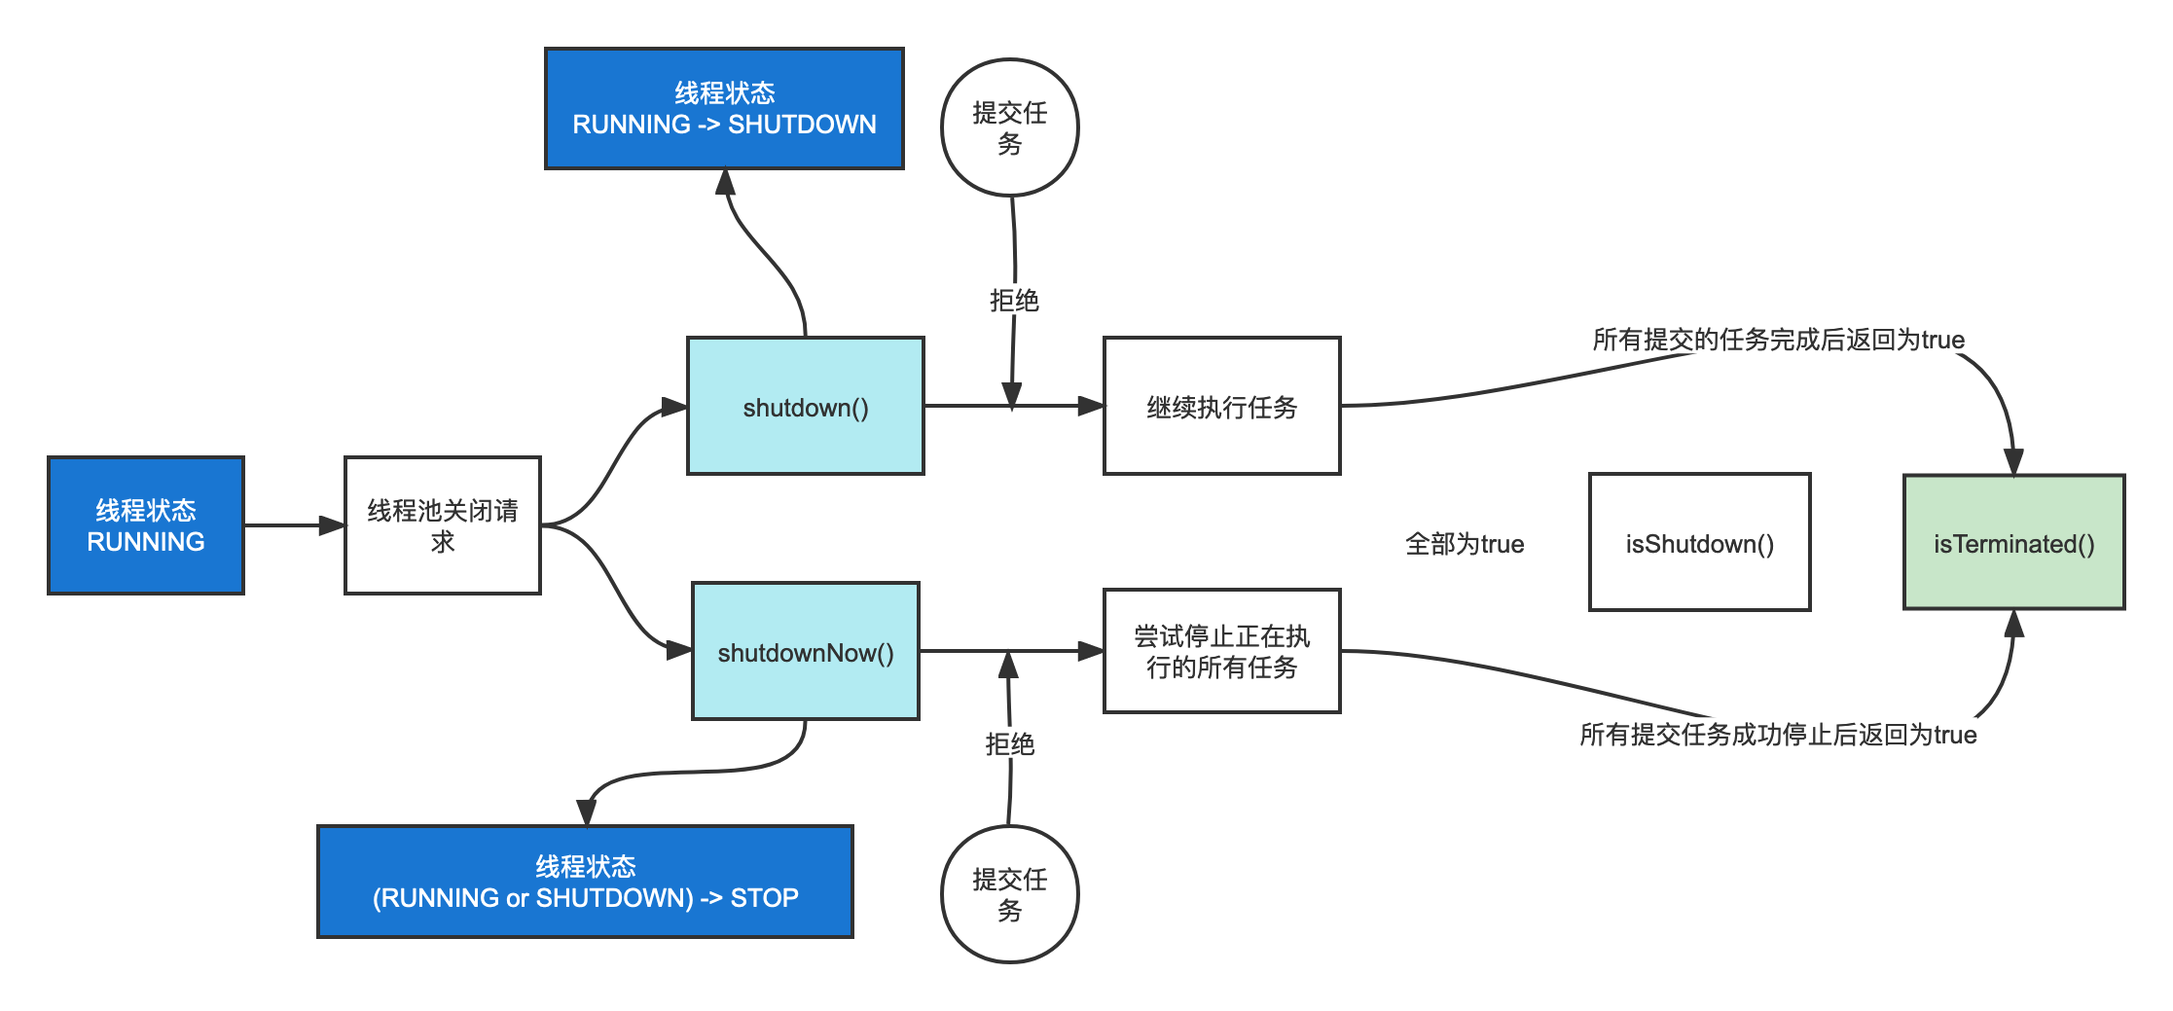
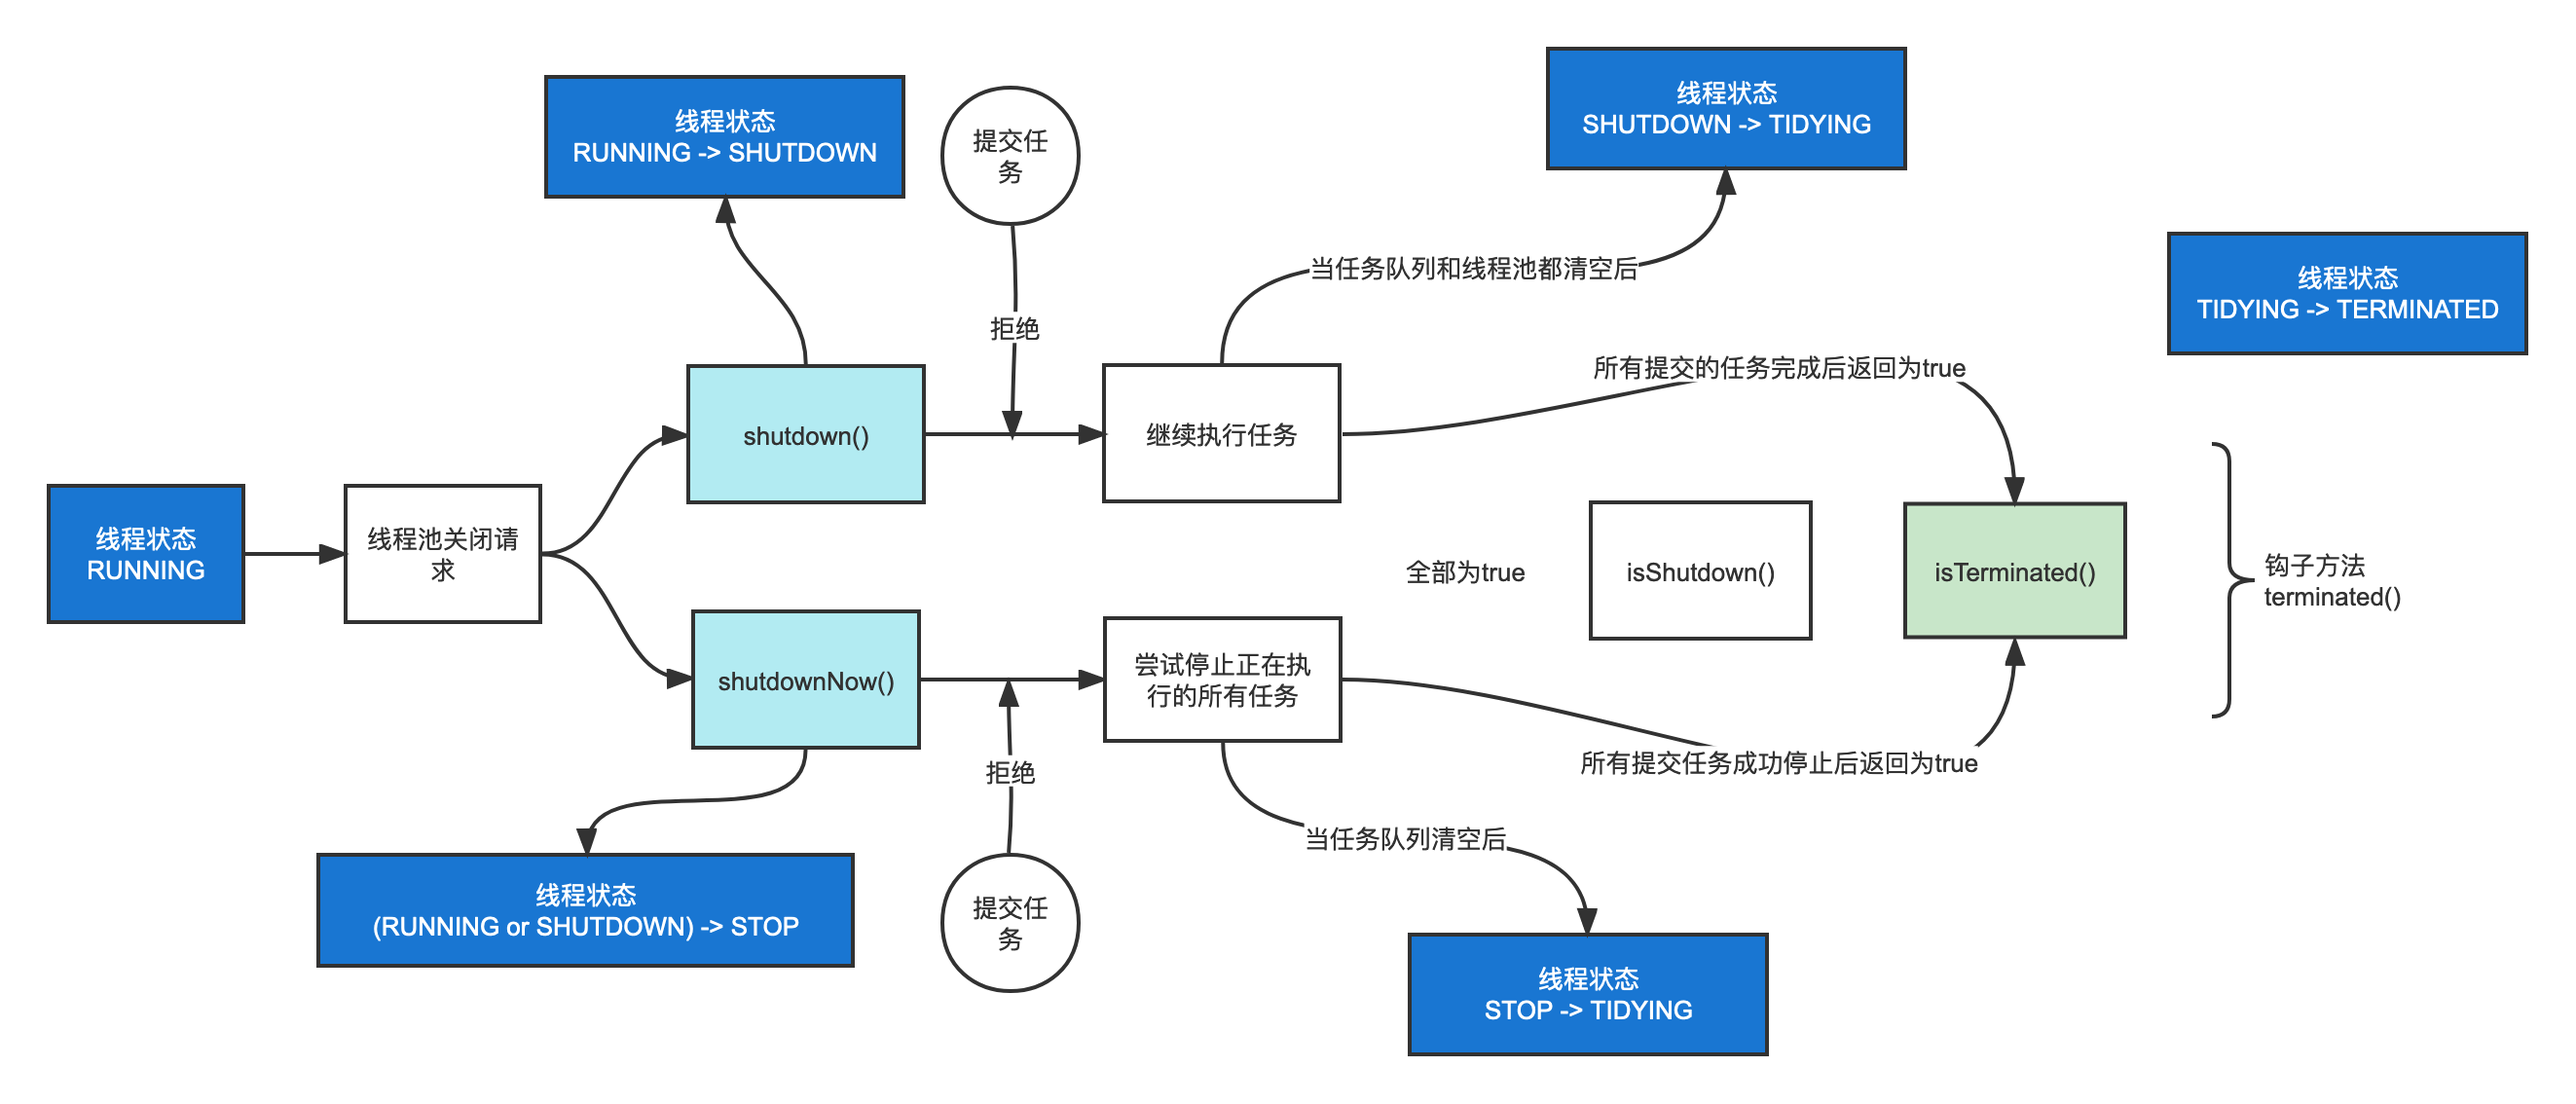
hashcode

diff --git a/docs/md/thread/线程池关闭.md b/docs/md/thread/线程池关闭.md
@@ -2,6 +2,52 @@
 
 <img src="../../assets/img/%E7%BA%BF%E7%A8%8B%E6%B1%A0%E5%85%B3%E9%97%AD.png" alt="线程池关闭" style="zoom:50%;" />
 
+## 线程池状态
+
+- RUNNING：正常的状态：接受新的任务，处理等待队列中的任务
+- SHUTDOWN：不接受新的任务提交，但是会继续处理等待队列中的任务
+- STOP：不接受新的任务提交，不再处理等待队列中的任务，中断正在执行任务的线程
+- TIDYING：所有的任务都销毁了，workCount 为 0。线程池的状态在转换为 TIDYING 状态时，会执行钩子方法 terminated()
+- TERMINATED：terminated() 方法结束后，线程池的状态就会变成这个
+
+
+
+```java
+ private final AtomicInteger ctl = new AtomicInteger(ctlOf(RUNNING, 0));
+    // COUNT_BITS 设置为 29(32-3)，前三位用于存放线程状态，后29位用于存放线程数
+    // 00000000000000000000000000011101
+    private static final int COUNT_BITS = Integer.SIZE - 3;
+    // 000 11111111111111111111111111111
+    // 线程池的最大线程数是 2^29-1=536870911
+    // 减1之后高三位为 0，其他为1
+    private static final int CAPACITY   = (1 << COUNT_BITS) - 1;
+    // runState is stored in the high-order bits
+    // 线程池的状态存放在高 3 位中
+    // 11100000000000000000000000000000
+    private static final int RUNNING    = -1 << COUNT_BITS;
+    // 00000000000000000000000000000000
+    private static final int SHUTDOWN   =  0 << COUNT_BITS;
+    // 00100000000000000000000000000000
+    private static final int STOP       =  1 << COUNT_BITS;
+    // 01000000000000000000000000000000
+    private static final int TIDYING    =  2 << COUNT_BITS;
+    // 01100000000000000000000000000000
+    private static final int TERMINATED =  3 << COUNT_BITS;
+
+    // Packing and unpacking ctl
+    //  & 两个数都为1则为1，否则为0
+    // 将整数 c 的低 29 位修改为 0，就得到了线程池的状态
+    // ~CAPACITY 111 00000000000000000000000000000
+    private static int runStateOf(int c)     { return c & ~CAPACITY; }
+    
+    // 将整数 c 的高 3 为修改为 0，就得到了线程池中的线程数
+    // CAPACITY 000 11111111111111111111111111111
+    private static int workerCountOf(int c)  { return c & CAPACITY; }
+    private static int ctlOf(int rs, int wc) { return rs | wc; }
+```
+
+
+
 ## shutdown()
 
 关闭线程池，已提交的任务继续执行，不接受继续提交新任务。
@@ -66,3 +112,4 @@ private void awaitTerminationIfNecessary(int awaitTerminationSeconds) {
     }
 }
 ```
+

diff --git a/docs/md/java/hashCode.md b/docs/md/java/hashCode.md
@@ -1,0 +1,69 @@
+# hashCode
+
+哈希码（HashCode），并不是完全唯一的，它是一种算法，让同一个类的对象按照自己不同的特征尽量的有不同的哈希码，但不表示不同的对象哈希码完全不同。
+
+## hashCode与equals
+
+equals()方法在Object中用的是 == 对比的是地址，所以要以对象某某个属性判断对象是否相等需要重写equals()方法。
+
+基本逻辑：
+
+- 两个对象 equals，Java 运行时环境会认为他们的 hashCode 一定相等。
+
+- 两个对象不 equals，他们的 hashCode 有可能相等。
+
+- 不管两个对象的 hashCode 是否相等，equals 都不一定。
+
+### 重写 equals
+
+Object.java，默认比较地址
+
+```java
+public boolean equals(Object obj) {
+    return (this == obj);
+}
+```
+
+String.java，重写了 equals
+
+```java
+public boolean equals(Object anObject) {
+    if (this == anObject) {
+        return true;
+    }
+    if (anObject instanceof String) {
+        String anotherString = (String)anObject;
+        int n = value.length;
+        if (n == anotherString.value.length) {
+            char v1[] = value;
+            char v2[] = anotherString.value;
+            int i = 0;
+            while (n-- != 0) {
+                if (v1[i] != v2[i])
+                    return false;
+                i++;
+            }
+            return true;
+        }
+    }
+    return false;
+}
+```
+
+## 重写hashCode
+
+hashCode()方法只有在集合中会使用到，比如HashMap就会用hashCode判断key相同的元素是否已经存在于集合中，如果通过地址的方式生成hashCode，那么就无法通过key生成的hashCode是否相同来判断key是否存在了，所以，如果对象需要存储在集合中的话就需要覆盖hashCode()方法，让相同的key生成的hashCode相同。
+
+以 HashMap 为例子：
+
+```java
+static final int hash(Object key) {
+    int h;
+    // 如果key为null，返回0
+    // hashCode的高16位异或低16位得到哈希值
+    // 主要从性能、哈希碰撞角度考虑，减少系统开销，不会造成因为高位没有参与下标计算从而引起的碰撞。
+    return (key == null) ? 0 : (h = key.hashCode()) ^ (h >>> 16);
+}
+```
+
+<img src="../../assets/img/hashMap%E9%87%8D%E5%86%99hashcode.png" alt="hashMap重写hashcode" style="zoom:50%;" />

diff --git a/docs/md/java/_sidebar.md b/docs/md/java/_sidebar.md
@@ -1,4 +1,7 @@
 - :memo: 目录
+   - 概念
+     - [hashCode](/md/hashCode.md)
+   
    - 集合
      - [HashMap](/md/java/HashMap.md)
        - [HashMap构造函数](/md/java/HashMap构造函数.md)
@@ -7,4 +10,5 @@
        - [HashMap扩容或初始化](/md/java/HashMap扩容或初始化.md)
        - [Node源码](/md/java/HashMap-Node.md)
        - [HashMap-put方法](/md/java/HashMap-put.md)
+   
 
